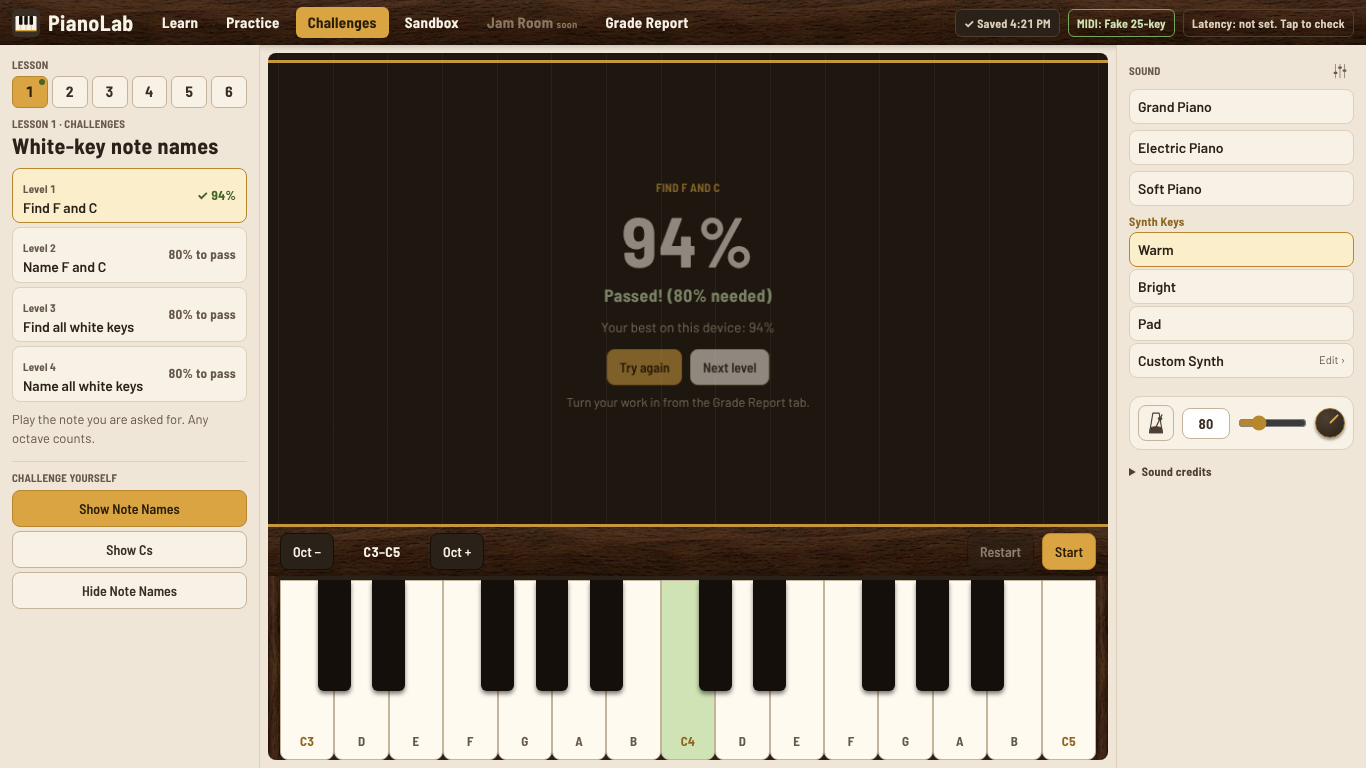
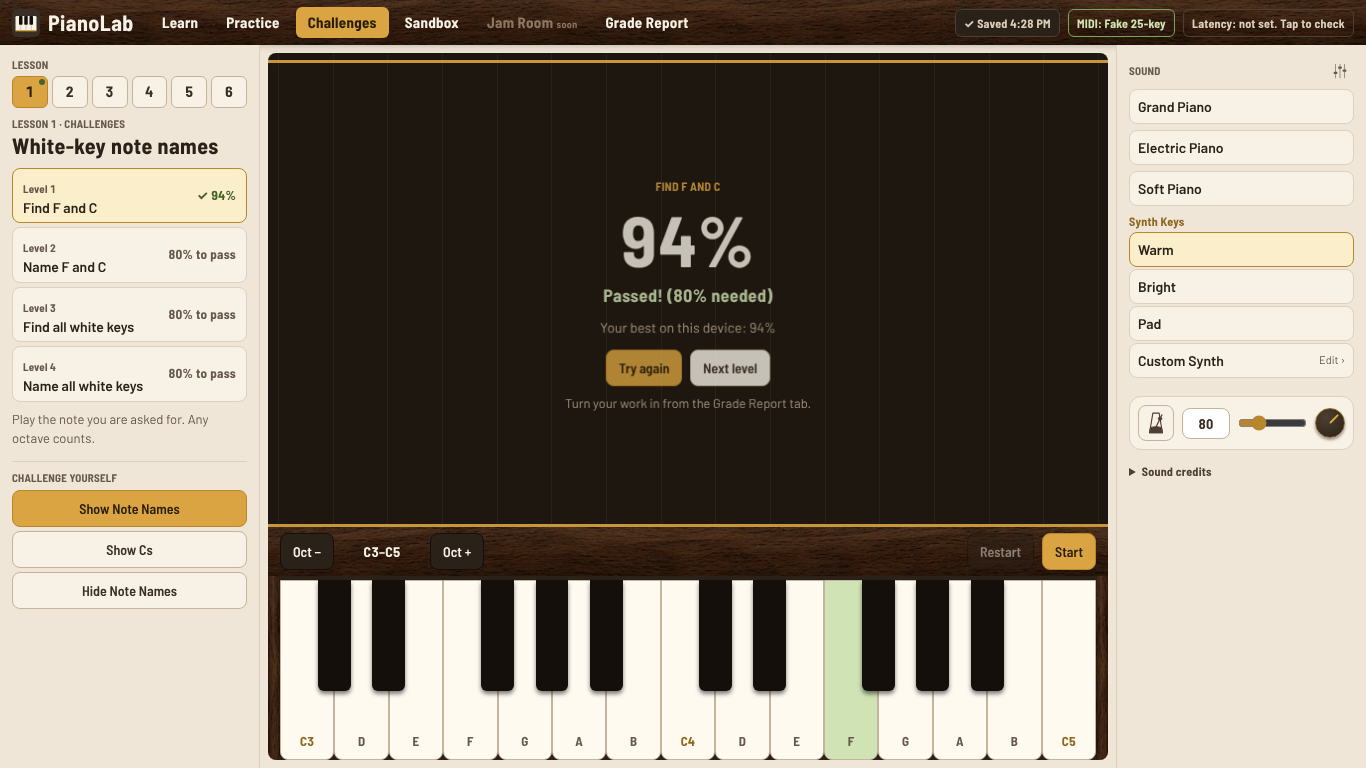
Challenges never ask the same question twice in a row; "Play example" button in Learn
- Questions are shuffled so the same one never comes back to back, and a new try doesn't start
  with the question the last try ended on (tested on every level, 1000 shuffles each)
- Learn's demo button says "▶ Play example"

Claude-Session: https://claude.ai/code/session_01BKpVuPhRA97XbBJ5qPiwv4

diff --git a/src/components/ModeChallenge.tsx b/src/components/ModeChallenge.tsx
@@ -3,6 +3,7 @@ import { Level, Prompt } from '../types';
 import { KEY_COUNT, isBlack, parseNote, pc, pcOf, pretty } from '../utils/music';
 import { Chord, chordLongName, chordName, detectChord, matchesChord, moveDistance, parseChord, smoothestVoicing, voicing } from '../utils/chords';
 import { accuracy, credit, floored, passed } from '../utils/grading';
+import { shuffleNoRepeats } from '../utils/shuffle';
 import { loadBest, saveBest } from '../utils/autosave';
 import { KeyMark } from './Piano';
 import { LABEL_ORDER, Labels, ModeCtx, ModeParts } from './modeTypes';
@@ -10,14 +11,8 @@ import { useChordWatcher, useNoteListener } from './chordInput';
 
 const ALL_LETTERS = ['A', 'B', 'C', 'D', 'E', 'F', 'G'];
 
-const shuffle = <T,>(xs: T[]) => {
-  const a = [...xs];
-  for (let i = a.length - 1; i > 0; i--) {
-    const j = Math.floor(Math.random() * (i + 1));
-    [a[i], a[j]] = [a[j], a[i]];
-  }
-  return a;
-};
+/** Two questions are "the same" when they ask the same thing about the same note or chord. */
+const sameQuestion = (p: Prompt) => [p.text, p.chord ?? '', p.show ?? '', p.inv ?? '', p.step ?? '', (p.answer ?? []).join('/')].join('|');
 
 interface Run {
   level: Level;
@@ -89,6 +84,8 @@ export function useChallenge(ctx: ModeCtx): ModeParts {
     setRun(r);
   };
   const markTimer = useRef<number | undefined>(undefined);
+  /** The last question asked in each level, so a new try doesn't open with it. */
+  const lastAsked = useRef<Record<string, string>>({});
   const viewRef = useRef(ctx.viewStart);
   viewRef.current = ctx.viewStart;
 
@@ -130,7 +127,8 @@ export function useChallenge(ctx: ModeCtx): ModeParts {
     const level = levelById(id);
     setFinished(null);
     setMsg('');
-    const prompts = shuffle(level.prompts);
+    // Never the same question twice in a row (and not a repeat of the one that ended the last try).
+    const prompts = shuffleNoRepeats(level.prompts, sameQuestion, lastAsked.current[level.id]);
     // Smooth Mover keeps its order: each chord follows the last one.
     const ordered = level.type === 'smooth' ? level.prompts : prompts;
     const prev = level.type === 'smooth' ? (level.start ?? ['C4', 'E4', 'G4']).map((n) => parseNote(n)!).filter((n) => n !== null) : undefined;
@@ -154,6 +152,7 @@ export function useChallenge(ctx: ModeCtx): ModeParts {
     const idx = r.idx + 1;
     const next = { ...r, ...extra };
     if (idx >= r.prompts.length) {
+      lastAsked.current[r.level.id] = sameQuestion(r.prompts[r.idx]);
       const raw = accuracy(points, r.prompts.length);
       setRunNow(null);
       const prevBest = best[r.level.id] ?? 0;

diff --git a/src/utils/shuffle.ts b/src/utils/shuffle.ts
@@ -1,0 +1,44 @@
+/** Shuffle a copy of a list (Fisher-Yates). */
+export function shuffle<T>(xs: T[]): T[] {
+  const a = [...xs];
+  for (let i = a.length - 1; i > 0; i--) {
+    const j = Math.floor(Math.random() * (i + 1));
+    [a[i], a[j]] = [a[j], a[i]];
+  }
+  return a;
+}
+
+/**
+ * Shuffle so the same question never comes twice in a row (`same` gives the key that makes two questions "the same"),
+ * and the first question isn't `avoidFirst` (the one that ended the last try). Builds the order one question at a time:
+ * a random pick (weighted by how many are left) among questions different from the last one, except that a question
+ * which needs every other remaining spot is taken right away. Only when that is impossible (e.g. most questions are
+ * identical) does a repeat happen.
+ */
+export function shuffleNoRepeats<T>(xs: T[], same: (x: T) => string, avoidFirst?: string): T[] {
+  const groups = new Map<string, T[]>();
+  for (const x of shuffle(xs)) {
+    const k = same(x);
+    groups.set(k, [...(groups.get(k) ?? []), x]);
+  }
+  const out: T[] = [];
+  let prev = avoidFirst;
+  while (out.length < xs.length) {
+    const left = [...groups].filter(([, v]) => v.length);
+    const remaining = xs.length - out.length;
+    const cands = left.filter(([k]) => k !== prev);
+    let pick: [string, T[]];
+    if (!cands.length) pick = left[0]; // only repeats are left
+    else {
+      const biggest = cands.reduce((a, b) => (b[1].length > a[1].length ? b : a));
+      if (biggest[1].length * 2 - 1 >= remaining) pick = biggest;
+      else {
+        let r = Math.random() * cands.reduce((n, [, v]) => n + v.length, 0);
+        pick = cands.find(([, v]) => (r -= v.length) < 0) ?? cands[0];
+      }
+    }
+    out.push(pick[1].pop() as T);
+    prev = pick[0];
+  }
+  return out;
+}

diff --git a/src/utils/shuffle.test.ts b/src/utils/shuffle.test.ts
@@ -1,0 +1,28 @@
+import { describe, expect, it } from 'vitest';
+import { shuffleNoRepeats } from './shuffle';
+import lessons from '../data/lessons.json';
+import { Lesson } from '../types';
+
+const key = (p: { text: string; chord?: string; show?: string; inv?: number; step?: number; answer?: string[] }) =>
+  [p.text, p.chord ?? '', p.show ?? '', p.inv ?? '', p.step ?? '', (p.answer ?? []).join('/')].join('|');
+
+describe('no question twice in a row', () => {
+  it('never repeats a question back to back, in any level (1000 shuffles each)', () => {
+    for (const les of lessons.lessons as unknown as Lesson[])
+      for (const lv of les.levels) {
+        if (lv.type === 'smooth') continue; // Smooth Mover keeps its order
+        for (let k = 0; k < 1000; k++) {
+          const order = shuffleNoRepeats(lv.prompts, key, key(lv.prompts[0]));
+          expect(order.length).toBe(lv.prompts.length);
+          expect(key(order[0]), `${lv.id} opens with the last question`).not.toBe(key(lv.prompts[0]));
+          for (let i = 1; i < order.length; i++) expect(key(order[i]), `${lv.id} repeats at ${i}`).not.toBe(key(order[i - 1]));
+        }
+      }
+  });
+  it('keeps every question', () => {
+    const xs = ['a', 'a', 'a', 'b', 'b', 'c'];
+    const out = shuffleNoRepeats(xs, (x) => x);
+    expect([...out].sort()).toEqual(xs);
+    for (let i = 1; i < out.length; i++) expect(out[i]).not.toBe(out[i - 1]);
+  });
+});

diff --git a/src/components/ModeLearn.tsx b/src/components/ModeLearn.tsx
@@ -369,7 +369,7 @@ export function useLearn(ctx: ModeCtx): ModeParts {
       )}
       <div className="flex gap-2">
         <button className="btn btn-dark text-[16px]" onClick={() => void showMe()} disabled={demoing}>
-          {demoing ? 'Playing…' : '▶ Play it again'}
+          {demoing ? 'Playing…' : '▶ Play example'}
         </button>
         {nextBtn}
       </div>

diff --git a/CLAUDE.md b/CLAUDE.md
@@ -89,6 +89,10 @@ lesson picker (all lessons open; later the teacher's assignment link can decide)
   before the next try. Mouse can't hold chords; MIDI, computer keys and touch can. **Listeners must be created once per
   screen (`useChordWatcher`, `useNoteListener`), never re-subscribed on every render**: that once let a real keyboard's
   separate note messages judge one chord twice ("That is C major, not G major" right after a correct C). `e16` tests it.
+- Challenge question order (`utils/shuffle.ts` `shuffleNoRepeats`): shuffled, but the same question never comes twice in a
+  row, and a new try doesn't open with the question the last try ended on. With only two answers (Lesson 1's F/C
+  levels) that means they alternate. Smooth Mover keeps its written order. `shuffle.test.ts` checks every level.
+- Learn show steps: the demo button says "▶ Play example".
 - Level types: findIt, nameIt, buildIt, nameChord (name / numeral / inversion via `choices`), halfStep,
   earCheck (major/minor, "Hear it again"), smooth (Smooth Mover: right chord AND fewest half steps from the lit chord;
   result shows half steps moved vs the smoothest possible). Choice-button answers don't flash the keys.
